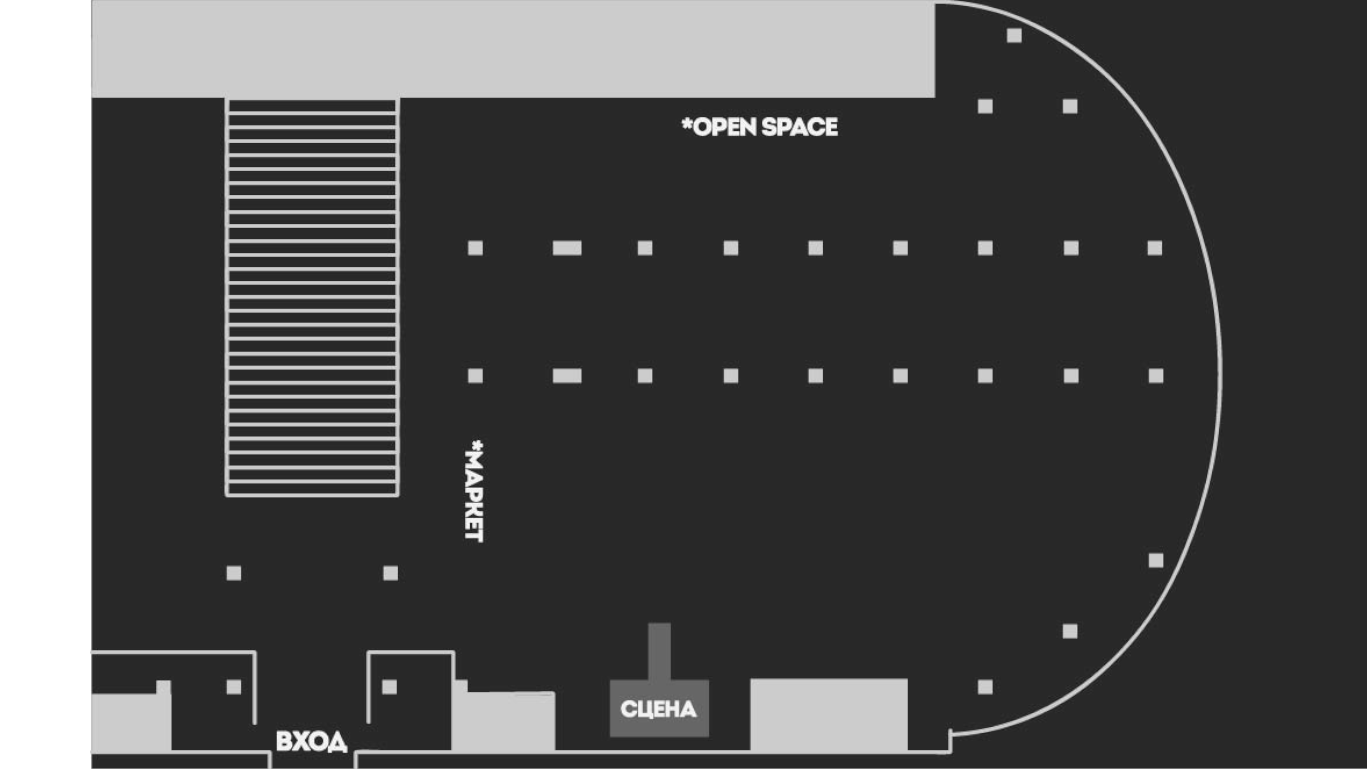
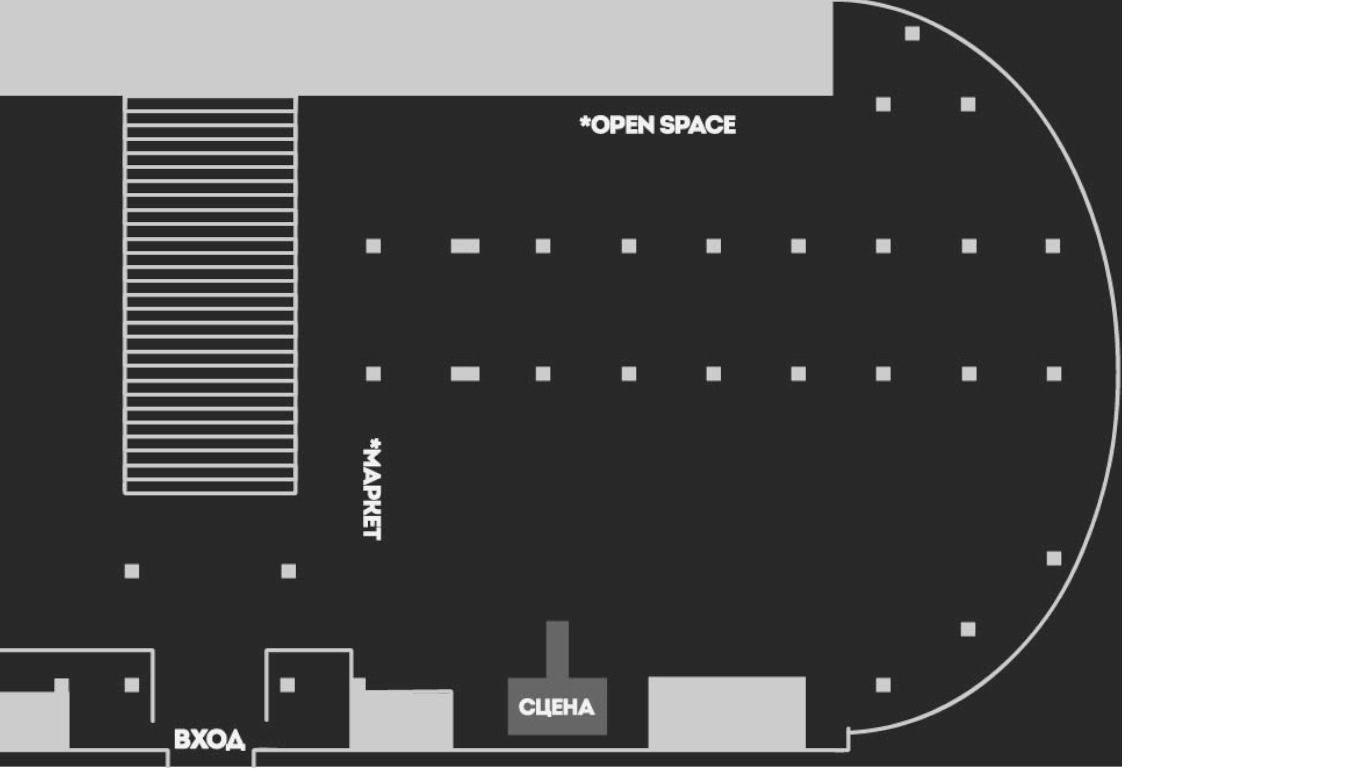
some changes

diff --git a/style.css b/style.css
@@ -158,21 +158,20 @@ button:hover {
 }
 
 /* Карта мест */
+.map-section {
+    flex: 2;
+    position: relative;
+    height: 750px; /* или любая другая подходящая высота */
+    overflow: hidden;
+    border: 2px solid #444;
+    background: #444;
+}
+
 .content-wrapper {
     display: flex;
     gap: 40px;
     margin-top: 25px;
-}
-
-.map-section {
-    flex: 2;
-    position: relative;
-    height: 750px;
-    overflow: hidden;
-    border: 2px solid #444;
-    background: #444;
-    scrollbar-width: none;
-    -ms-overflow-style: none;
+    width: 100%; /* добавьте это */
 }
 
 .map-section::-webkit-scrollbar {
@@ -180,13 +179,13 @@ button:hover {
 }
 
 .map-container {
-    transform-origin: top left;
-    width: 1364.7px;  /*1364.7px*/
-    height: 784.4px; /*784.4px*/
+    width: 100%;
+    height: 100%;
     background-image: url('./src/ufa-fest.png');
     background-size: contain;
     background-repeat: no-repeat;
-    background-position: 0px 0px; 
+    background-position: center;
+    background-color: #444;
 }
 
 /* Стили мест */

diff --git a/index.html b/index.html
@@ -17,7 +17,7 @@
         <div class="content-wrapper">
             <div class="map-section">
                 <div class="map-container" id="map">
-                    <svg class="map-svg" viewBox="0 0 1600 800" preserveAspectRatio="xMidYMid meet">
+                    <svg class="map-svg" viewBox="0 0 1367 769" preserveAspectRatio="xMidYMid meet">
                         <!-- Фон загружается через CSS -->
                     </svg>
                 </div>

diff --git a/js/places.js b/js/places.js
@@ -157,7 +157,5 @@ const places = [
   { x: 1100, y: 560, rotate: 0, class: 'Б58' },
   { x: 1070, y: 590, rotate: 0, class: 'Б59' },
   { x: 1100, y: 590, rotate: 0, class: 'Б60' },
-/*  
 
-  */
 ];
